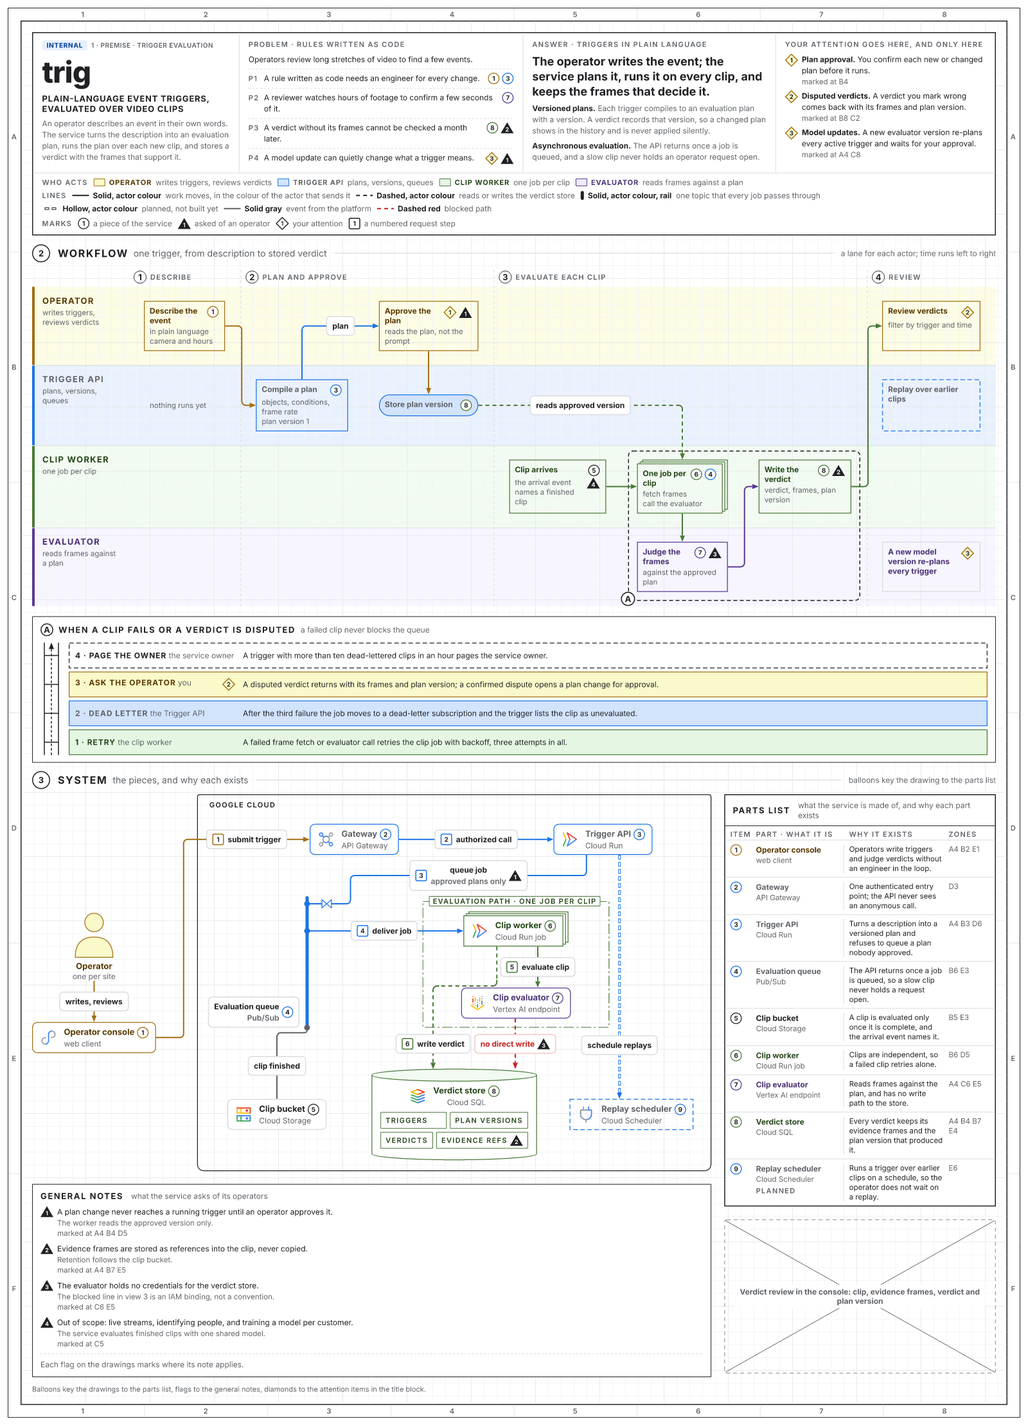
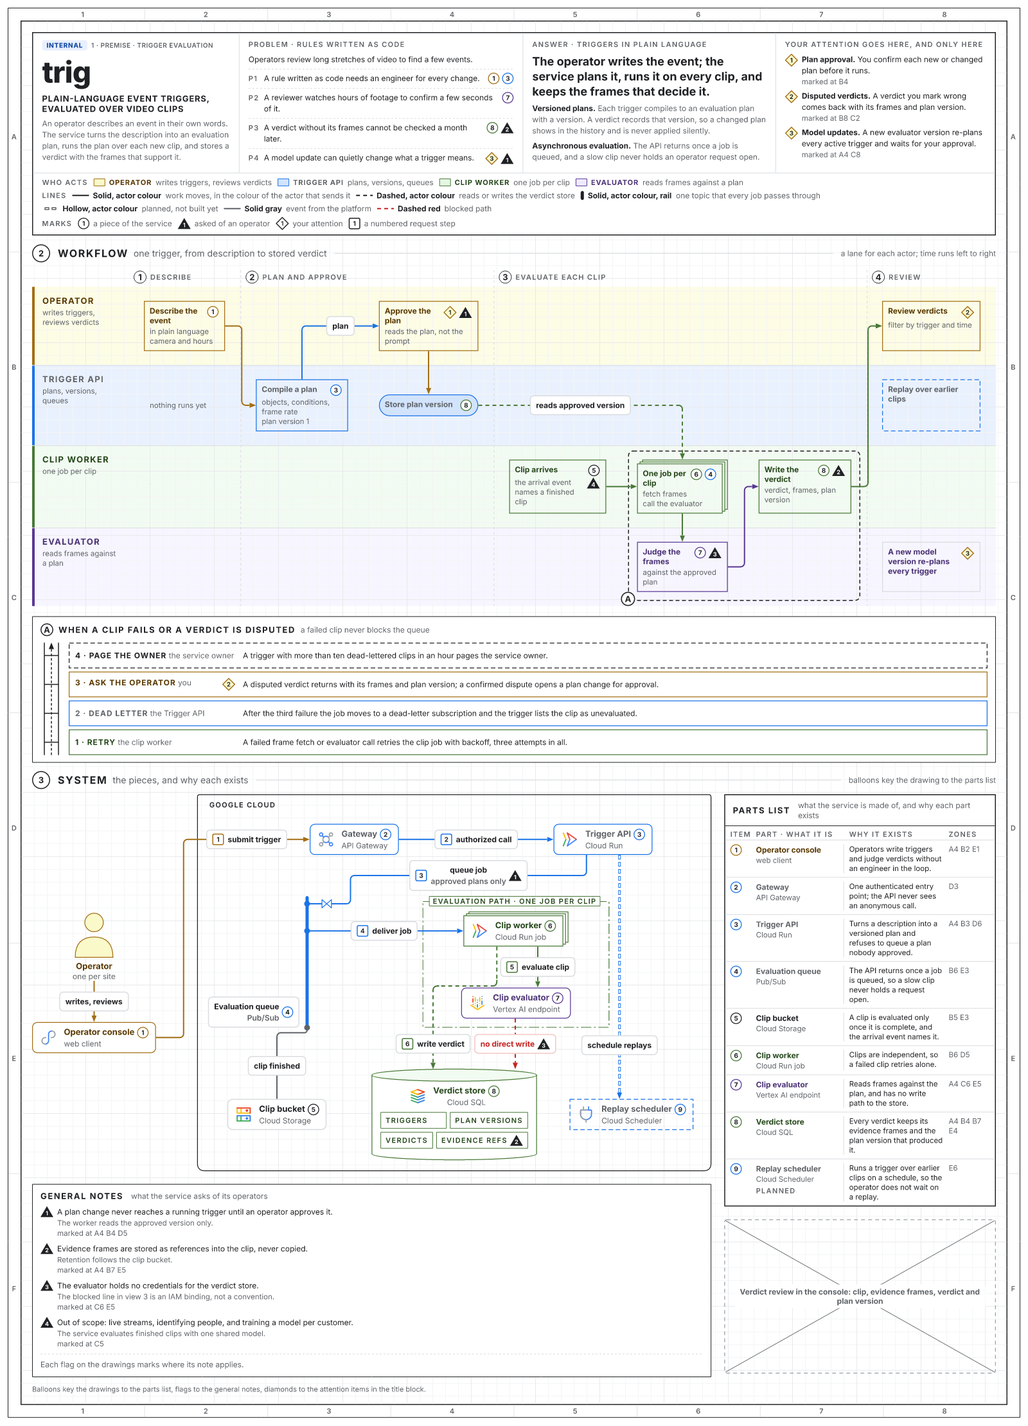
feat: let a ladder's rungs go unfilled with rung_fill
A Ladder takes rung_fill with a Phases node's step_fill values: tint (the
default), cell or none. A planned rung stays unfilled and dashed, and
every rung keeps its outline in its actor's wire. The onepager's ladder
draws its rungs unfilled, so they read as outlines as its Steps do.

Changed region(s): [[0.0625, 0.4662, 0.9688, 0.5284]]

diff --git a/crates/stencil-render/tests/ladder_paint.rs b/crates/stencil-render/tests/ladder_paint.rs
@@ -82,10 +82,10 @@ fn the_detail_frame_and_the_ladder_draw_in_the_frame_ink() {
     assert_eq!(examined, 3);
 }
 
-/// A planned rung without an actor is dashed in the frame ink with no fill; an actor's rung
-/// takes its actor's fill and wire.
+/// A planned rung without an actor is dashed in the frame ink with no fill. onepager's
+/// `rung_fill: none` leaves every rung unfilled in its actor's wire.
 #[test]
-fn a_planned_rung_is_dashed_and_unfilled_and_an_actor_rung_takes_its_fill() {
+fn a_planned_rung_is_dashed_and_an_unfilled_ladder_paints_no_rung_fill() {
     let theme = common::theme("center");
     let rendered = rendered("center");
     let svg = common::parse_xml(&rendered.svg.svg);
@@ -100,11 +100,48 @@ fn a_planned_rung_is_dashed_and_unfilled_and_an_actor_rung_takes_its_fill() {
         front.attribute("stroke"),
         Some(theme.sheet_colors().frame.as_str())
     );
-    let operator = common::group(&svg, &format!("{LADDER}/rungs/2"));
-    let front = operator
-        .descendants()
-        .find(|element| element.has_tag_name("rect"))
-        .unwrap();
-    assert_eq!(front.attribute("fill"), Some(theme.tint(4).fill.as_str()));
-    assert_eq!(front.attribute("stroke"), Some(theme.tint(4).wire.as_str()));
+    let mut examined = 0;
+    for (index, slot) in [(0, 6), (1, 1), (2, 4)] {
+        let rung = common::group(&svg, &format!("{LADDER}/rungs/{index}"));
+        let front = rung
+            .descendants()
+            .find(|element| element.has_tag_name("rect"))
+            .unwrap();
+        assert_eq!(front.attribute("fill"), Some("none"), "rung {index}");
+        assert_eq!(
+            front.attribute("stroke"),
+            Some(theme.tint(slot).wire.as_str()),
+            "rung {index}"
+        );
+        examined += 1;
+    }
+    assert_eq!(examined, 3);
+}
+
+/// Without `rung_fill` a rung fills with its actor's tint, and `cell` with the sheet cell.
+#[test]
+fn a_ladder_without_rung_fill_fills_its_rungs_with_their_tint() {
+    let theme = common::theme("center");
+    for (fill, expected) in [
+        (None, theme.tint(4).fill.as_str().to_string()),
+        (Some("cell"), theme.sheet_colors().cell.as_str().to_string()),
+    ] {
+        let mut document: Value =
+            serde_json::from_str(include_str!("../../../examples/onepager.json")).unwrap();
+        let ladder = document["body"][0]["children"][1].as_object_mut().unwrap();
+        match fill {
+            Some(fill) => ladder.insert("rung_fill".to_string(), json!(fill)),
+            None => ladder.remove("rung_fill"),
+        };
+        document["theme"] = json!("center");
+        let rendered = common::render_document_with_fixed_metrics(document);
+        let svg = common::parse_xml(&rendered.svg.svg);
+        let operator = common::group(&svg, &format!("{LADDER}/rungs/2"));
+        let front = operator
+            .descendants()
+            .find(|element| element.has_tag_name("rect"))
+            .unwrap();
+        assert_eq!(front.attribute("fill"), Some(expected.as_str()), "{fill:?}");
+        assert_eq!(front.attribute("stroke"), Some(theme.tint(4).wire.as_str()));
+    }
 }

diff --git a/crates/stencil-render/src/svg.rs b/crates/stencil-render/src/svg.rs
@@ -75,8 +75,8 @@ enum DocumentNode<'a> {
     ProblemPoint,
     /// An actor's chip in the legend strip.
     Actor,
-    /// A rung of a ladder, `/…/rungs/<i>`.
-    Rung(&'a stencil_model::Rung),
+    /// A rung of a ladder, `/…/rungs/<i>`, with the fill its box takes.
+    Rung(&'a stencil_model::Rung, StepFill),
 }
 
 /// Walks page and geometry in the section 4.4 geometry order and asserts the pointers match,
@@ -264,7 +264,7 @@ fn geometry_order(page: &Page) -> Vec<(NodePointer, DocumentNode<'_>)> {
                         .map(|(index, rung)| {
                             (
                                 list.pointer_in(&entry.pointer).index(index),
-                                DocumentNode::Rung(rung),
+                                DocumentNode::Rung(rung, ladder.fill_of(rung)),
                             )
                         })
                         .collect()
@@ -1059,17 +1059,13 @@ impl<'a> SvgWriter<'a> {
             | DocumentNode::Actor => PartContext::default(),
             // A rung's box is drawn as a boxed Step is: filled in its actor's fill and
             // outlined in its wire, or dashed and unfilled when planned.
-            DocumentNode::Rung(rung) => PartContext {
+            DocumentNode::Rung(rung, fill) => PartContext {
                 step_look: Some(if rung.planned {
                     StepLook::Planned
                 } else {
                     StepLook::Box
                 }),
-                step_fill: Some(if rung.planned {
-                    StepFill::None
-                } else {
-                    StepFill::Tint
-                }),
+                step_fill: Some(fill),
                 ..PartContext::default()
             },
             DocumentNode::LegendEntry(entry) => PartContext {

diff --git a/crates/stencil-model/tests/sheet.rs b/crates/stencil-model/tests/sheet.rs
@@ -1736,3 +1736,32 @@ fn a_ladder_and_its_rung_marks_off_a_sheet_need_a_sheet() {
         "{found:?}"
     );
 }
+
+#[test]
+fn a_ladder_fills_its_rungs_as_rung_fill_says_and_a_planned_rung_takes_none() {
+    let mut document = ladder_sheet_value();
+    document["body"][0]["children"][2]["rungs"]
+        .as_array_mut()
+        .unwrap()
+        .push(json!({ "title": "Page", "text": "Someone is paged.", "planned": true }));
+    let page: Page = serde_json::from_value(document.clone()).unwrap();
+    let Some(stencil_model::Node::View(view)) = page.body.first() else {
+        panic!("the sheet opens with a View");
+    };
+    let Some(stencil_model::Node::Ladder(ladder)) = view.children.get(2) else {
+        panic!("the View's third child is the Ladder");
+    };
+    use stencil_model::StepFill;
+    assert_eq!(ladder.fill_of(&ladder.rungs[0]), StepFill::Tint);
+    assert_eq!(ladder.fill_of(&ladder.rungs[1]), StepFill::None);
+
+    document["body"][0]["children"][2]["rung_fill"] = json!("none");
+    assert_eq!(violations(document.clone()), Vec::new());
+    let page: Page = serde_json::from_value(document.clone()).unwrap();
+    assert_eq!(
+        serde_json::to_value(&page).unwrap()["body"][0]["children"][2]["rung_fill"],
+        "none"
+    );
+    document["body"][0]["children"][2]["rung_fill"] = json!("paper");
+    assert!(serde_json::from_value::<Page>(document).is_err());
+}

diff --git a/crates/stencil-model/src/document.rs b/crates/stencil-model/src/document.rs
@@ -817,9 +817,23 @@ pub struct Ladder {
     /// The ids of the Steps the detail frame lies around, all in one Phases node.
     #[schemars(length(min = 1, max = 16), inner(regex(pattern = ID_PATTERN)))]
     pub around: Vec<String>,
+    /// What every rung's box is filled with; absent is tint. A planned rung takes none.
+    #[serde(default, skip_serializing_if = "Option::is_none")]
+    pub rung_fill: Option<StepFill>,
     /// From rung 1, drawn at the bottom, to the last, drawn at the top.
     #[schemars(length(min = 1, max = 6))]
     pub rungs: Vec<Rung>,
+}
+
+impl Ladder {
+    /// What the box of `rung` is filled with: none when planned, else `rung_fill` or tint.
+    pub fn fill_of(&self, rung: &Rung) -> StepFill {
+        if rung.planned {
+            StepFill::None
+        } else {
+            self.rung_fill.unwrap_or(StepFill::Tint)
+        }
+    }
 }
 
 /// One rung of a ladder: who acts at this level of escalation and what happens.

diff --git a/crates/stencil-render/src/describe.rs b/crates/stencil-render/src/describe.rs
@@ -694,6 +694,9 @@ impl<'a> Writer<'a> {
                 if let Some(note) = &ladder.note {
                     text.push_str(&format!("; {}", escape_markdown(note)));
                 }
+                if let Some(fill) = ladder.rung_fill {
+                    text.push_str(&format!("; rung fill {}", fill.as_str()));
+                }
                 format!(
                     "{text}. Frames {}. {pointer}",
                     self.framed_titles(ladder).join(", ")

diff --git a/docs/SPEC.md b/docs/SPEC.md
@@ -4833,7 +4833,7 @@ pub enum PipeEndSide { Start, End }
 
 16. Marks and keyed lists. On a sheet the units continue, after the attention items, lanes and phases, with each part and general note in body order (entries, named by the part's name, its node's name when it is keyed by `node`, and by the note's text), then one Mark unit per glyph a carrier draws: problem points in order, then body nodes, then links. A carrier's glyph parts (`Balloon`, `Flag`, `Diamond`) pair in drawn order with its marks as `PageMarks` lists them (crates/stencil-model/src/marks.rs): a part's balloon on its `node` first (pointer `/…/parts/<i>/node`), then `marks/<k>`, then `corner_mark`, then the marks of each `lines` entry. A mark unit's name is `<glyph> <n> <key name>` (`balloon 1 Operator console`), its zone `sheet_zone_at` the glyph's centre, and its key the entry it names. A carrier whose glyph count differs from its mark count is listed in `mark_mismatches` and its unpaired glyphs and marks are not units. The figure paragraph counts `<c> marks` after the entries, and its references sentence ends `; a Zones cell lists the cells of every balloon, flag or diamond keyed to its entry.` The writer adds: a Marks column to the problem points table and, before Pointer, to every Lines table on a sheet, each mark written `<unit name> <spans>` and joined by `; ` (`none` for no mark); the attention table as `Mark | Item | Actor | Zones | Pointer` (`diamond <n>`, the item, its actor, its where-used cells); one nested `- Mark <unit name> <spans>` line per mark under its Item, Box or Step outline line, a Step line's marks nested under that line; after the legend table `Mark kinds: <text> (<glyph>, <list>); ...` for each kind the page draws, the text from `sheet.marks` or the default word; a PartsList outline line `<title>: <note>.` with a `### Parts list` table `Part | Name | What | Why | Actor | Zones | Pointer` after the View's outline; a GeneralNotes outline line with one nested `Note <n> (<id>): <text> <detail> Zones <cells>.` line per note and its spans, then `Foot: <foot>`. `ENTRY_PARTS` gives an attention item `AttentionDiamond`, `AttentionLead` and `AttentionText`, a part `PartBalloon`, `PartTitle` and `PartWhy`, a note `NoteFlag` and `NoteText`. `description-covers-drawing` also reports `draws <g> mark glyphs for <m> marks` at a carrier and `where-used reads "<w>", marks at <z>` at a key whose drawn where-used text differs from its cells; a name in a list-valued cell may escape its semicolons. Tests: `a_where_used_text_or_a_missing_glyph_is_a_defect`, and `every_entry_part_is_drawn_once_per_entry` over all five lists.
 17. Assembly surfaces. An outlined Item's outline line adds `, outline <store|person|stack>` after its kind fields, and an Item or Box with `planned` ends its fields with `, planned`; a store's compartments follow its facts as nested lines `Compartment <text>.`, each with its marks nested under it, and the Item's own mark lines leave compartment marks out. The parts list's Name cell adds `, planned` for a part whose node is planned. In the Lines table a Link or Pipe with `step` opens its Line cell with `step <n>: `; a rail's Kind is `pipe v, rail`, its From cell `rail` and then `; in from <name> (<id>)` for each link that ends on it and its To cell `rail; out to <name> (<id>)` for each link that leaves it, in link order, and its Ends `no arrowheads`; a link end on a rail reads `dot start` or `dot end` in the Ends cell beside its arrowheads, and a valve adds `, valve before the end`. A planned line's Style cell names it `, planned` before the colour word. The Legend table's Key adds `-rail` and `-planned` (section 14.5 rule 7), and on a sheet that draws a step badge the `Mark kinds:` line ends with `<text> (step badge, numbered lines)`, the text `sheet.marks.step` or `step`. A step badge, a valve, a rail dot and a hop are parts of their link's unit and add no unit of their own; compartment marks are mark units like any carrier's, at `/…/compartments/<j>/marks/<k>`.
-18. Ladders. A Ladder and each of its rungs are node units, the rung named by its title and its zone the rung's bounds. The Ladder's outline line reads `Ladder, detail <letter>: <title>; <note>. Frames <step titles>.` with its spans, and one nested line per rung from rung 1: `Rung <n>[ (bottom)| (top)] <title>[, <who>][; actor <name>][; planned]: <text>` with its spans and its marks nested under it; a ladder of one rung marks neither end. The Phases line adds `; detail <letter> frames <step titles>` for each ladder that frames its Steps. The frame, tag and letter are parts of the Phases node, so they add no unit.
+18. Ladders. A Ladder and each of its rungs are node units, the rung named by its title and its zone the rung's bounds. The Ladder's outline line reads `Ladder, detail <letter>: <title>; <note>. Frames <step titles>.` with its spans, and one nested line per rung from rung 1: `Rung <n>[ (bottom)| (top)] <title>[, <who>][; actor <name>][; planned]: <text>` with its spans and its marks nested under it; a ladder of one rung marks neither end. The Phases line adds `; detail <letter> frames <step titles>` for each ladder that frames its Steps. A ladder that sets `rung_fill` adds `; rung fill <fill>` after its note. The frame, tag and letter are parts of the Phases node, so they add no unit.
 
 ### 14.2 Sheet model
 
@@ -4999,6 +4999,7 @@ pub struct Ladder {
     pub title: String,
     pub note: Option<String>,          // beside the title on the heading row
     pub around: Vec<String>,           // Step ids of one Phases node, 1..=16
+    pub rung_fill: Option<StepFill>,   // every rung's fill; absent is tint
     pub rungs: Vec<Rung>,              // rung 1 drawn at the bottom, 1..=6
 }
 pub struct Rung {
@@ -5105,7 +5106,7 @@ Flat only. Sizes are named constants in `crates/stencil-layout/src/build/sheet.r
 26. Assemblies. A Box of a sheet-look kind draws its label as a `Tab` that straddles the top of its dash-dot outline, `TabBorder`. The tab is an in-flow row 10 in from the outline's left edge, its text run `Label` in `sheet_label` padded 6 by 1.4; `TabBorder` starts 8 below the Box's top, at the tab's middle, so the tab lies inside the Box's bounds and `text-fits-box`, `child-inside-container` and `siblings-do-not-overlap` read one box. The outline is a link obstacle for links that end neither inside nor at the Box, and a leg keeps 12 px off it.
 27. Rails. A rail (`form: rail`, `dir: v`, a Row child) is a column as tall as its Row, at least 80: a 12 px strip holding `Rail`, the 5 px bar with round caps, and at its foot the `Tag` with the step badge, `TagLabel`, `TagSub` and the rail's marks, left of the bar. It is excluded from the gutter slots and from `pipes-land`. A link attaches to a rail on a long side level with what it faces, clamped 12 px inside the bar's ends and above the tag on the tag's side, or at either end of the bar; its route draws a `RailDot` of radius 4.5 on the bar there in place of an arrowhead.
 28. Sheet lines. On a sheet each link's tag is placed after every route is known, longest leg first, on a straight run that keeps one dash period plus 4 px (`bend_keep_out`: the corner radius plus 15) from every bend and 12 px from either end, clear of nodes that are not its endpoints' ancestors, of earlier tags and valves, of other links' legs and 6 px from every Box outline; a link whose legs hold no such run has one leg moved by 4 to 64 px and is placed again. Ends of several links on one side of one node spread along it at `(k + 1) / (n + 1)` in the order of what they face, and the far end of a facing pair lines up with the spread end so the link runs straight. A leg of a later link that runs within 4 px along a leg of an earlier one, or any leg that runs within 12 px along a Box outline, moves 10, 20 or 30 px across when the moved route stays clear. Zones that hold neither end of a link are obstacles of its route.
-29. Detail ladders. A Ladder is a column with a 1 px border, padding 10, 12 and 11: a heading row (gap 8) of `DetailTag`, a 20 px circle holding `DetailLetter` (`view_numeral`, A plus the Ladder's index among the page's Ladders in body order), `Title` (`list_title`) and `Note` (`view_note_small`); 10 below it the rungs, from the last at the top to rung 1 at the bottom, 5 apart, each a row of a 34 px rail column and, 10 after it, the `Rung` node. The rungs grow to fill a ladder stretched by its parent. `RailLeft` and `RailRight` (1.5 px, centred 6 and 28 into the rail column) and `EscalationArrow` (an arrowhead wide, centred 17 in) run from the top of the top rung to the bottom of rung 1; `RungTick/<i>` joins the rails at rung i's middle. A Rung (`Front`, its own box) is a row, min height 40, padding 6 by 10, gap 12, centred: a title column holding a lead run (rule 9) of `RungTitle` (`rung_title`, `<n> · <title>`) and `RungWho` (`rung_who`), or the title alone without `who`, and the rung's marks; then `RungText` (`block_body`). The title column is one width for every rung of the Ladder (`plan_ladders`, before the tree is built): the widest title with its who and marks on one line, plus 1, clamped to 158 and 280. `rung_title` with `rung_who` is the second lead-run pair. Geometry order puts each Ladder's rungs right after it, rung 1 first, each a child of the Ladder.
+29. Detail ladders. A Ladder is a column with a 1 px border, padding 10, 12 and 11: a heading row (gap 8) of `DetailTag`, a 20 px circle holding `DetailLetter` (`view_numeral`, A plus the Ladder's index among the page's Ladders in body order), `Title` (`list_title`) and `Note` (`view_note_small`); 10 below it the rungs, from the last at the top to rung 1 at the bottom, 5 apart, each a row of a 34 px rail column and, 10 after it, the `Rung` node. The rungs grow to fill a ladder stretched by its parent. `RailLeft` and `RailRight` (1.5 px, centred 6 and 28 into the rail column) and `EscalationArrow` (an arrowhead wide, centred 17 in) run from the top of the top rung to the bottom of rung 1; `RungTick/<i>` joins the rails at rung i's middle. A Rung (`Front`, its own box) is a row, min height 40, padding 6 by 10, gap 12, centred: a title column holding a lead run (rule 9) of `RungTitle` (`rung_title`, `<n> · <title>`) and `RungWho` (`rung_who`), or the title alone without `who`, and the rung's marks; then `RungText` (`block_body`). The title column is one width for every rung of the Ladder (`plan_ladders`, before the tree is built): the widest title with its who and marks on one line, plus 1, clamped to 158 and 280. `rung_title` with `rung_who` is the second lead-run pair. `rung_fill` takes `StepFill`'s values with a Phases node's semantics: a planned rung draws none, and every fill keeps the rung's outline in its actor's wire, so no fill hides text and no vet rule like `step-text-fill` applies. Geometry order puts each Ladder's rungs right after it, rung 1 first, each a child of the Ladder.
 30. Detail frames. After the sheet frame and before routing, `add_detail_frames` adds to the Phases node that holds each Ladder's `around` Steps a `DetailFrame` (their union grown 14, `DETAIL_FRAME_GROW_PX`: an arrowhead's length and 4 px, so a line into a framed Step crosses the frame on its shaft), a `DetailTag` (a circle of radius 11 centred on the frame's bottom-left corner, moved inside the node) and its `DetailLetter`. Lanes keep 22 px above and below their Steps, so a frame stands 8 px inside its lane's edge. The tag is a label box of the Phases node, so a route runs around it. `label_boxes` returns nothing for a Ladder or a Rung; `obstacle_box` returns a Ladder's bounds and None for a Rung.
 
 ### 14.5 Paint
@@ -5189,7 +5190,7 @@ pub struct SheetGrid { pub minor: Color, pub major: Color }
 | Ladder | `Title`, `Note` | text | - | - | `sheet.frame`, `sheet.label_ink` |
 | Ladder | `RailLeft`, `RailRight`, `RungTick/<i>` | line | - | `sheet.frame` 1.5 | - |
 | Ladder | `EscalationArrow` | line, dash 4 3, under a filled arrowhead | arrowhead `sheet.frame` | `sheet.frame` 1.5 | - |
-| Rung | `Front` | rect | `tint.fill`, else `sheet.cell`; planned none | `tint.wire`, else `sheet.frame`, 1.25; planned dash 7 4 | - |
+| Rung | `Front` | rect | by `Ladder::fill_of`: `rung_fill` (tint, the default: `tint.fill`, else `sheet.cell`; cell; none), planned none | `tint.wire`, else `sheet.frame`, 1.25; planned dash 7 4 | - |
 | Rung | `RungTitle` | text | - | - | `tint.ink` |
 | Rung | `RungWho` | text | - | - | `ink.secondary` |
 | Rung | `RungText` | text | - | - | `ink.primary` |

diff --git a/crates/stencil-cli/prime/phases.md b/crates/stencil-cli/prime/phases.md
@@ -8,7 +8,7 @@ A Phases node is a swimlane inside a View: a lane per actor top to bottom, phase
 - A Step is its title and up to 6 lines. look: box (an outline in the actor's wire), chip (a pill in the actor's fill, one stored thing), note (a hairline, an aside), stack (three offset boxes, many of one thing), planned (dashed, not built) or text (no box, secondary ink).
 - Band: `band` on the Phases node is wash (default: the band, with the sheet grid drawn over it) or none (no band; the bar, name and lane rules stay).
 - Fill: `fill` on a Step, or `step_fill` on the Phases node for every Step that sets none, is tint (the actor's fill; lines take the actor's ink), cell (the sheet cell) or none (transparent; the lane and grid show through). Absent, box and stack take cell, chip tint, note and planned none. Every look keeps its outline; an unfilled stack draws its back sheets as the edges clear of the front. A text look draws no box and takes no fill. Under wire every fill is white or none.
-- Ladder: a body node of a View, usually under the Phases node, that shows how a failure escalates. `around` lists the ids of Steps of one Phases node, which draws a dashed detail frame around them with a lettered tag at its bottom-left corner; the ladder carries the same letter, A for the first Ladder in body order, up to 8. `rungs` climb from rung 1 at the bottom to the last at the top, beside two rails and a dashed arrow up. A rung is its title, numbered `1 · `, `who` after it, its text, an `actor` whose fill and wire it takes, `planned` (dashed, no fill) and up to 4 `marks` on its title line.
+- Ladder: a View child, usually under the Phases node, showing how a failure escalates. `around` lists Step ids of one Phases node, which draws a dashed detail frame around them with a lettered tag; the ladder carries the same letter, A for the first Ladder, up to 8. `rungs` climb from rung 1 at the bottom to the last at the top, beside two rails and a dashed arrow up. A rung is its title, numbered `1 · `, `who` after it, its text, an `actor` whose fill and wire it takes, `planned` (dashed, no fill) and up to 4 `marks` on its title line. `rung_fill` fills every rung as `step_fill` does, default tint.
 - Links: a Step with an id is a link endpoint. A link leaving a Step takes its lane's actor. Lane names, lane texts and phase heads are obstacles, so a route runs around them; leave a column between Steps a link joins, or set from_side and to_side.
 
 {{vocabulary:Phases,Step,Phase,Ladder,Rung,StepLook,BandLook,StepFill}}

diff --git a/crates/stencil-render/tests/fixtures/onepager.description.md b/crates/stencil-render/tests/fixtures/onepager.description.md
@@ -104,7 +104,7 @@ Subtitle: one trigger, from description to stored verdict. Note: a lane for each
   - Step Replay over earlier clips. Lane Trigger API, phase 4 Review, column 1, look planned. `B7-B8` `/body/0/children/0/children/10`
   - Step A new model version re-plans every trigger. Lane Evaluator, phase 4 Review, column 1, look note. `C7-C8` `/body/0/children/0/children/11`
     - Mark diamond 3 Model updates. `C8` `/body/0/children/0/children/11/marks/0`
-- Ladder, detail A: When a clip fails or a verdict is disputed; a failed clip never blocks the queue. Frames One job per clip, Judge the frames, Write the verdict. `C1-D8` `/body/0/children/1`
+- Ladder, detail A: When a clip fails or a verdict is disputed; a failed clip never blocks the queue; rung fill none. Frames One job per clip, Judge the frames, Write the verdict. `C1-D8` `/body/0/children/1`
   - Rung 1 (bottom) Retry, the clip worker; actor Clip worker: A failed frame fetch or evaluator call retries the clip job with backoff, three attempts in all. `D1-D8` `/body/0/children/1/rungs/0`
   - Rung 2 Dead letter, the Trigger API; actor Trigger API: After the third failure the job moves to a dead-letter subscription and the trigger lists the clip as unevaluated. `C1-D8` `/body/0/children/1/rungs/1`
   - Rung 3 Ask the operator, you; actor Operator: A disputed verdict returns with its frames and plan version; a confirmed dispute opens a plan change for approval. `C1-C8` `/body/0/children/1/rungs/2`
